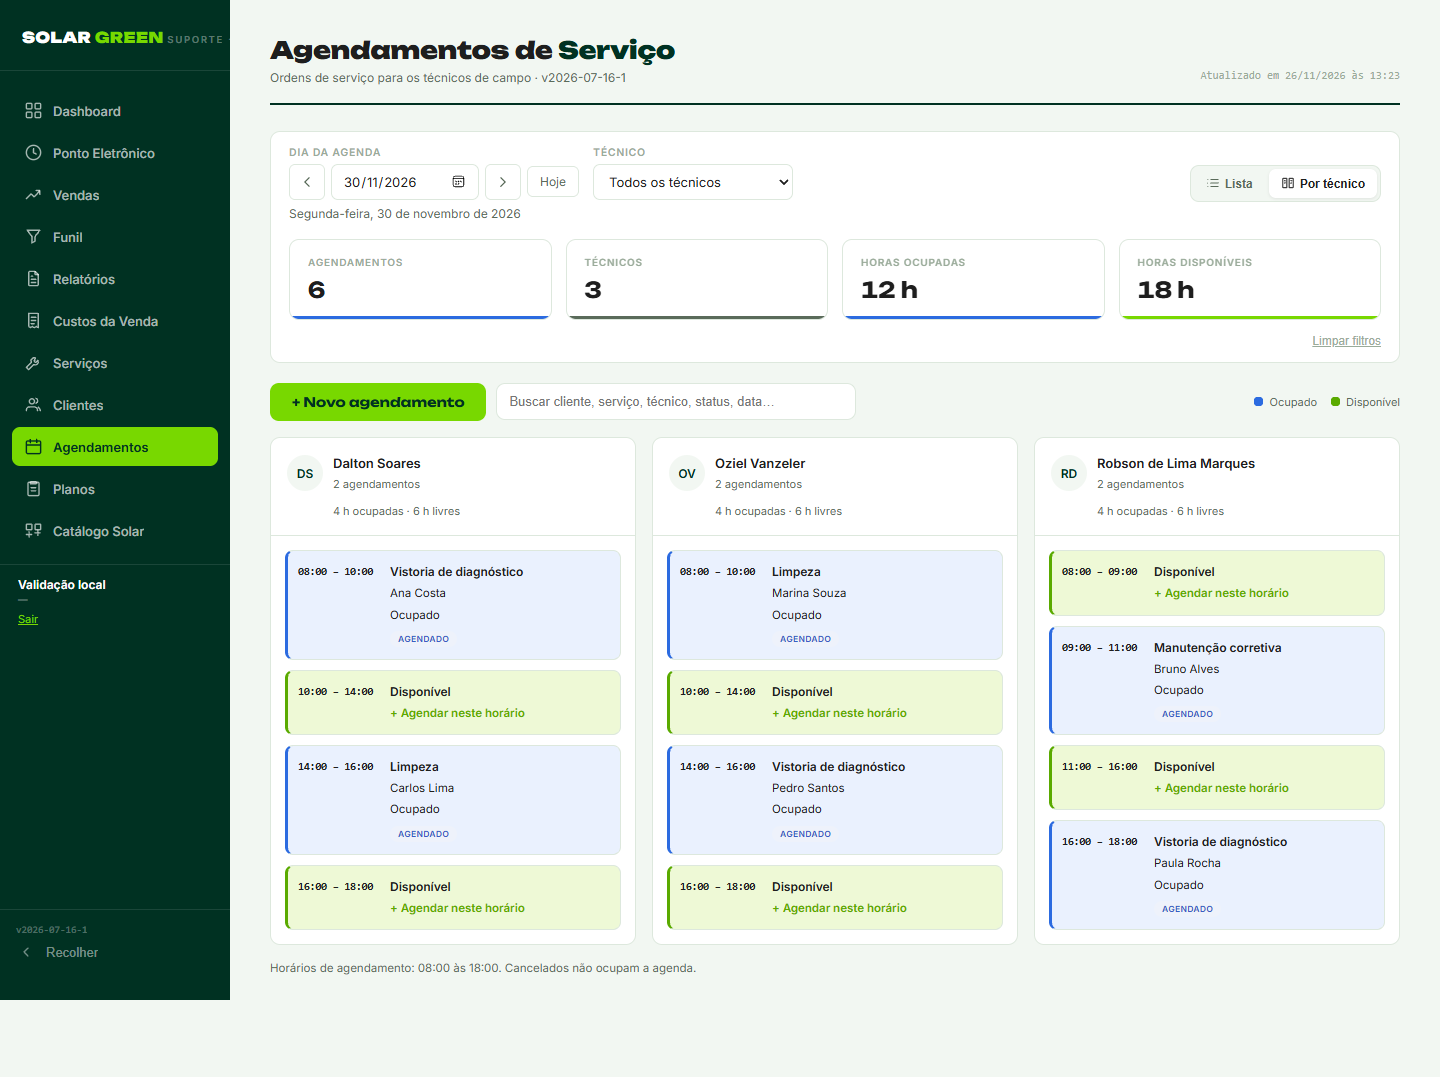
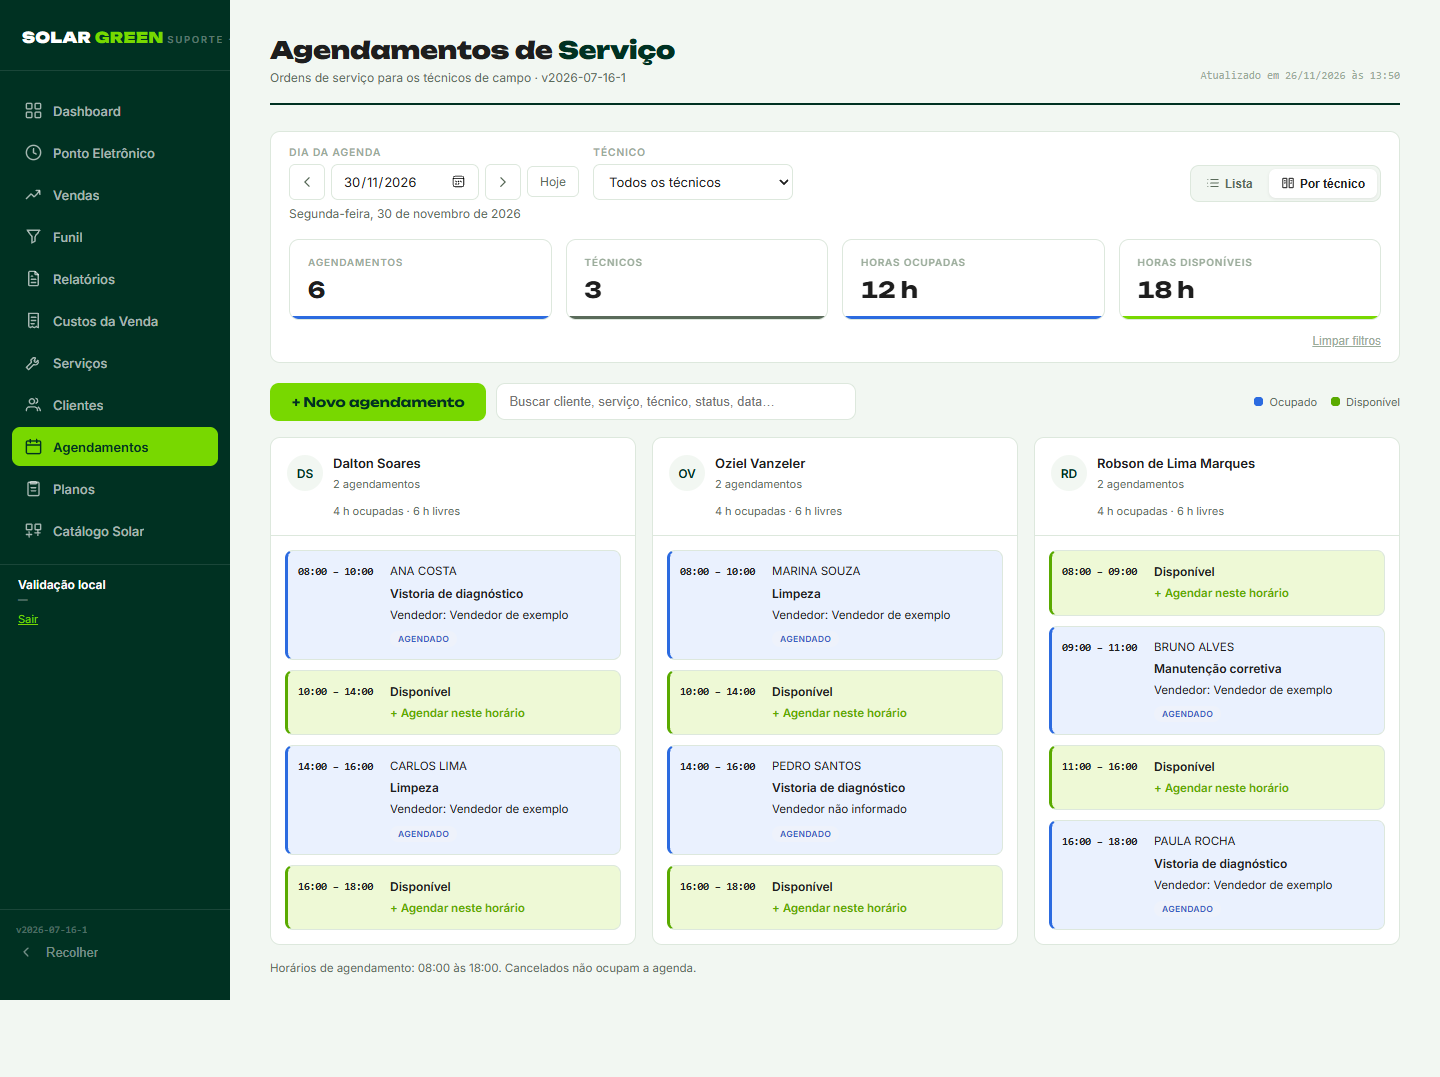
feat(agenda): priorizar cliente e mostrar vendedor nos cards

diff --git a/js/agendamentos.js b/js/agendamentos.js
@@ -18,6 +18,7 @@
   var PERIODO=window.SGAgendaPeriodo;
   var DIA=window.SGAgendaDia;
   var visaoTecnicos=true,diaSelecionado=dateKey(new Date());
+  var vendedoresCardsConsultados=Object.create(null);
 
   /**
    * Enquanto o painel de detalhe de uma OS está aberto, escuta ao vivo (Firestore
@@ -1005,6 +1006,24 @@
       .sort(function(a,b){return a.nome.localeCompare(b.nome,'pt-BR');});
   }
   function duracaoDia(min){return Number((min/60).toFixed(2)).toLocaleString('pt-BR')+' h';}
+  function carregarVendedoresCards(grupos){
+    var buscas=[];
+    grupos.forEach(function(g){g.itens.forEach(function(a){
+      var id=a.IdCliente,cliente=clientesMap[id];
+      if(!id||(cliente&&!cliente._parcial)||vendedoresCardsConsultados[id])return;
+      vendedoresCardsConsultados[id]='carregando';
+      buscas.push(window.SGFireReady.then(function(){return garantirClienteCarregadoAg(id);}).catch(function(){return null;}).then(function(){vendedoresCardsConsultados[id]='concluido';}));
+    });});
+    if(buscas.length)Promise.all(buscas).then(function(){if(visaoTecnicos)render();});
+  }
+  function vendedorClienteCard(idCliente){
+    var cliente=clientesMap[idCliente];
+    if(cliente&&!cliente._parcial){
+      var id=cliente['Vendedor Responsavel'];
+      return id?'Vendedor: '+nomeVendedor(id):'Vendedor não informado';
+    }
+    return vendedoresCardsConsultados[idCliente]==='carregando'?'Carregando vendedor…':'Vendedor indisponível';
+  }
   function renderTecnicosDia(){
     var grupos=gruposTecnicosDia(),ocupadas=0,disponiveis=0,incertos=0;
     var inicio=DIA.minutos(HORAS_INICIO[0]),fim=DIA.minutos(HORAS_FIM[HORAS_FIM.length-1]);
@@ -1023,6 +1042,7 @@
     var busca=normalizaBuscaAg(document.getElementById('ag-buscaGeral').value).trim();
     document.getElementById('ag-diaNota').textContent='Horários de agendamento: '+HORAS_INICIO[0]+' às '+HORAS_FIM[HORAS_FIM.length-1]+'. Cancelados não ocupam a agenda.'+(busca?' Agenda completa dos técnicos encontrados.':'');
     var visiveis=grupos.filter(function(g){return !busca||normalizaBuscaAg(g.nome).indexOf(busca)!==-1||g.itens.some(function(a){return textoBuscavelAgendamento(a).indexOf(busca)!==-1;});});
+    carregarVendedoresCards(visiveis);
     var wrap=document.getElementById('ag-tecnicosWrap');
     wrap.innerHTML=visiveis.map(function(g){
       var slots=[];
@@ -1030,7 +1050,7 @@
         var i=DIA.intervaloNoDia(a,diaSelecionado),cancelado=DIA.cancelado(a);
         slots.push({ini:i?i.ini:1441,cancelado:cancelado,html:'<button type="button" class="ag-dia-slot '+(cancelado?'ag-dia-cancelado':'ag-dia-ocupado')+'" data-agendamento="'+escapeHtml(a.IdAgendamento)+'">'+
           '<span class="ag-dia-hora">'+escapeHtml(i?DIA.hora(i.ini)+' – '+DIA.hora(i.fim):'Sem horário definido')+'</span>'+
-          '<span class="ag-dia-conteudo"><strong>'+escapeHtml(nomeServico(a.IdServico))+'</strong><span>'+escapeHtml(nomeCliente(a.IdCliente))+'</span><span>'+(cancelado?'Histórico · cancelado':'Ocupado')+'</span></span>'+
+          '<span class="ag-dia-conteudo"><span class="ag-dia-cliente">'+escapeHtml(String(nomeCliente(a.IdCliente)).toLocaleUpperCase('pt-BR'))+'</span><strong class="ag-dia-servico">'+escapeHtml(nomeServico(a.IdServico))+'</strong><span class="ag-dia-vendedor">'+escapeHtml(vendedorClienteCard(a.IdCliente))+'</span></span>'+
           '<span class="ag-status-tag '+escapeHtml(statusSlug(a['Status Agendamento']||'Agendado'))+'">'+escapeHtml(a['Status Agendamento']||'Agendado')+'</span></button>'});
       });
       if(g.agenda.calculado)g.agenda.livres.forEach(function(i){

diff --git a/index.html b/index.html
@@ -2201,7 +2201,7 @@
 <script src="js/supervisor-mensagens.js?v=20261105c"></script>
 <script src="js/funil.js?v=20261116a"></script>
 <script src="js/agendamentos-dia.js?v=20261126a"></script>
-<script src="js/agendamentos.js?v=20261126c"></script>
+<script src="js/agendamentos.js?v=20261126d"></script>
 <script src="js/clientes.js?v=20261116a"></script>
 <script src="js/relatorios.js?v=20260829f"></script>
 <script src="js/custos-venda.js?v=20261027a"></script>

diff --git a/maquetes/agendamentos-por-tecnico-2026-11-26/LEIA.md b/maquetes/agendamentos-por-tecnico-2026-11-26/LEIA.md
@@ -10,6 +10,8 @@ Ajuste solicitado em 26/11: a visão Por técnico mostra apenas os técnicos ati
 
 Por técnico é a visualização inicial dos Agendamentos, no dia atual. Lista continua disponível no seletor de visualização.
 
+Conteúdo de cada compromisso, após ajuste de 26/11: cliente em caixa alta na primeira linha, serviço em negrito na segunda e vendedor responsável do cliente na terceira, mantendo o status existente. Quando o cache só tem nome/telefone, consulta o documento dos clientes exibidos após a autenticação e reaproveita o cache por ID. Ausência de vendedor ou falha na consulta são informadas sem inventar atribuição; a coleção inteira de clientes não é carregada para isso.
+
 Conferência: 11 testes de cálculo/período; 15 cenários no navegador com Edge/Chromium, sem gravação em produção nem erros de JavaScript, incluindo teclado nas novas ações, viradas de data, cancelamento, sobreposição, serviços de vários dias, dados incompletos, filtro/busca, atualização ao vivo, texto longo e celular sem rolagem horizontal. `validacao-ui.json` registra o resultado. O teste pode ser repetido com `tests/agendamentos-ui.cjs` e playwright-core instalado no ambiente, ou indicado pela variável `PLAYWRIGHT_MODULE`.
 
 PWA: verificador existente executado com Chrome e seletor adaptado, em uma cópia temporária, ao banner real `#sg-install-banner.show`. Passou service worker, manifest, instalabilidade Chromium, instruções iPhone e estado já instalado. A emulação não substitui teste de instalação em um iPhone físico.
